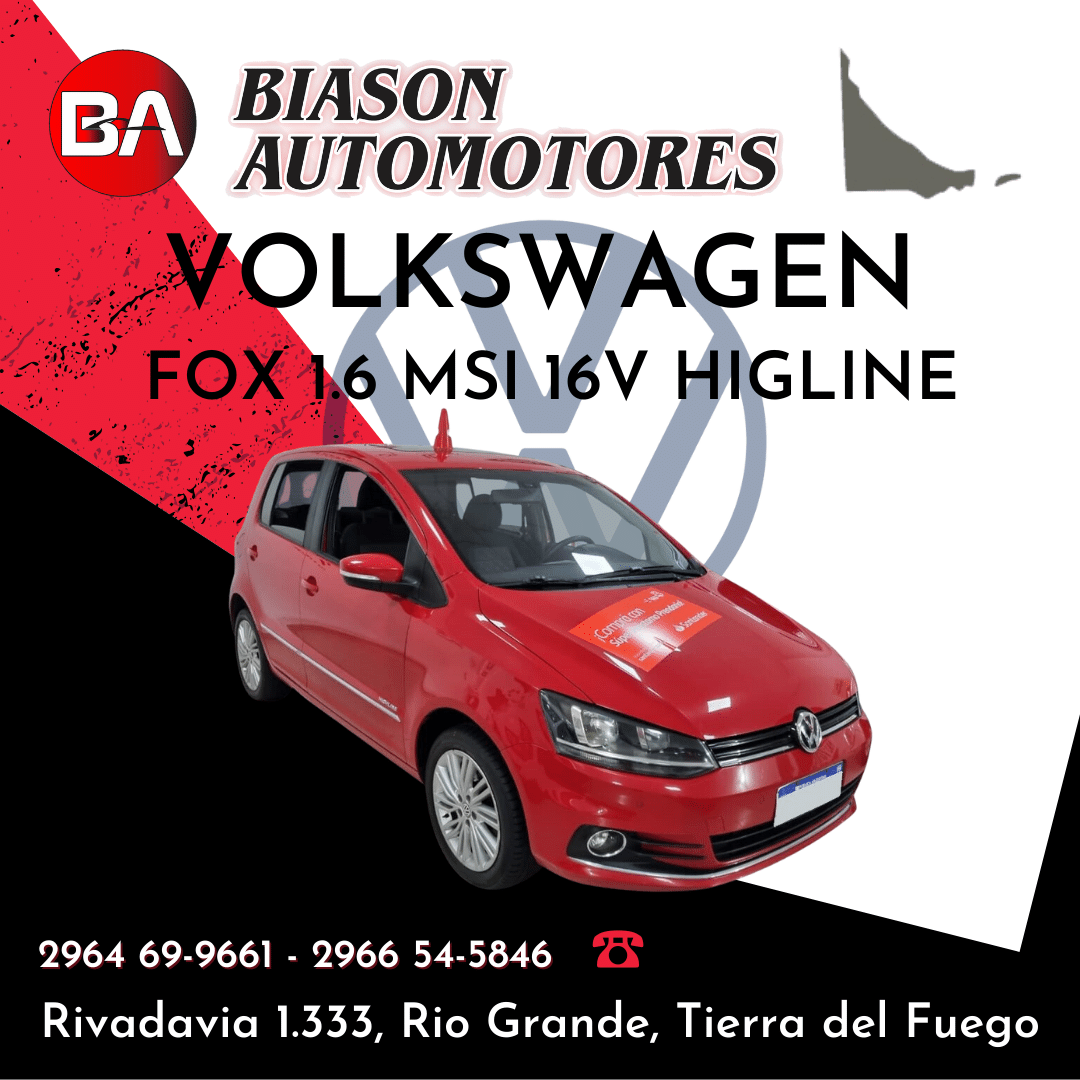
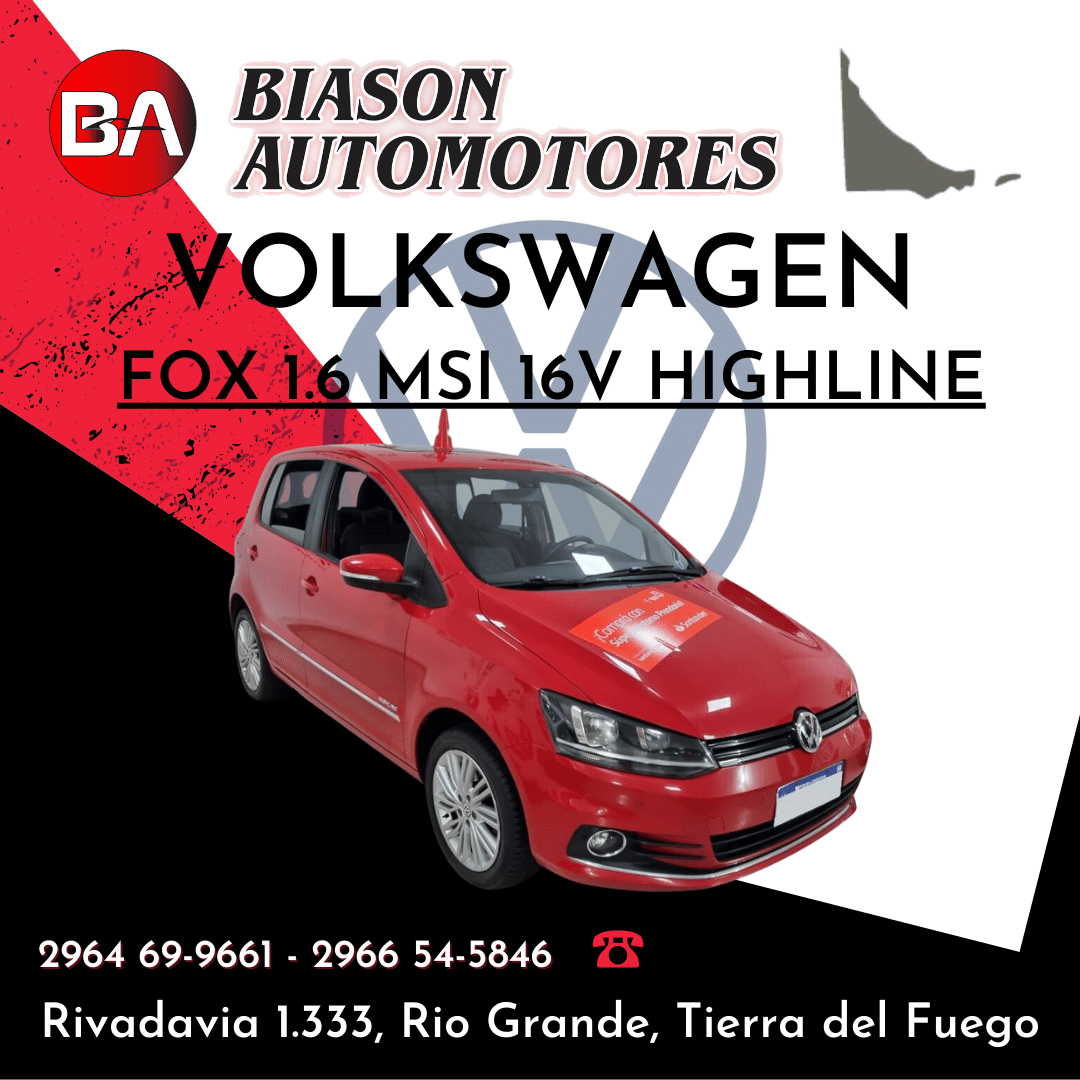
Highline

Changed region(s): [[0.0917, 0.3056, 0.9167, 0.3972]]

diff --git a/html/catalogo/volkswagen-fox.html b/html/catalogo/volkswagen-fox.html
@@ -21,8 +21,8 @@
   })(window,document,'script','dataLayer','GTM-TNQRBJ6');</script>
   <!-- End Google Tag Manager -->
 
-    <title>Biason Automotores | Volkswagen Fox 1.6 MSI 16V Higline </title>
-    <meta content="" name="VOLKSWAGEN Fox 1.6 MSI 16V Higline - Biason Automotores" />
+    <title>Biason Automotores | Volkswagen Fox 1.6 MSI 16V Highline </title>
+    <meta content="" name="VOLKSWAGEN Fox 1.6 MSI 16V Highline - Biason Automotores" />
     <meta content="" name="Biason Automotores, Volkswagen, Fox, Tierra del Fuego, Rio Grande" />
 
     <!-- Favicons -->
@@ -142,7 +142,7 @@
     <main>
       <section>
         <div class="container mt-4">
-          <h1>VOLKSWAGEN FOX 1.6 MSI 16V HIGLINE</h1>
+          <h1>VOLKSWAGEN FOX 1.6 MSI 16V HIGHLINE</h1>
         </div>
       </section>
 
@@ -154,25 +154,25 @@
               <div id="carouselExampleInterval" class="carousel slide" data-bs-ride="carousel">
                 <div class="carousel-inner">
                 <div class="carousel-item active" data-bs-interval="3000">
-                    <img src="../../assets/img/portfolio/volkswagen/fox/fox-highline.png" class="d-block w-100" alt="Volkswagen Fox 1.6 MSI 16V Higline">
+                    <img src="../../assets/img/portfolio/volkswagen/fox/fox-highline.png" class="d-block w-100" alt="Volkswagen Fox 1.6 MSI 16V Highline">
                   </div>
                   <div class="carousel-item" data-bs-interval="3000">
-                    <img src="../../assets/img/portfolio/volkswagen/fox/fox-highline (1).png" class="d-block w-100" alt="Volkswagen Fox 1.6 MSI 16V Higline">
+                    <img src="../../assets/img/portfolio/volkswagen/fox/fox-highline (1).png" class="d-block w-100" alt="Volkswagen Fox 1.6 MSI 16V Highline">
                   </div>
                   <div class="carousel-item" data-bs-interval="3000">
-                    <img src="../../assets/img/portfolio/volkswagen/fox/fox-highline (2).png" class="d-block w-100" alt="Volkswagen Fox 1.6 MSI 16V Higline">
+                    <img src="../../assets/img/portfolio/volkswagen/fox/fox-highline (2).png" class="d-block w-100" alt="Volkswagen Fox 1.6 MSI 16V Highline">
                   </div>
                   <div class="carousel-item " data-bs-interval="3000">
-                    <img src="../../assets/img/portfolio/volkswagen/fox/fox-highline (3).png" class="d-block w-100" alt="Volkswagen Fox 1.6 MSI 16V Higline">
+                    <img src="../../assets/img/portfolio/volkswagen/fox/fox-highline (3).png" class="d-block w-100" alt="Volkswagen Fox 1.6 MSI 16V Highline">
                   </div>
                   <div class="carousel-item " data-bs-interval="3000">
-                    <img src="../../assets/img/portfolio/volkswagen/fox/fox-highline (4).png" class="d-block w-100" alt="Volkswagen Fox 1.6 MSI 16V Higline">
+                    <img src="../../assets/img/portfolio/volkswagen/fox/fox-highline (4).png" class="d-block w-100" alt="Volkswagen Fox 1.6 MSI 16V Highline">
                   </div>
                   <div class="carousel-item" data-bs-interval="3000">
-                    <img src="../../assets/img/portfolio/volkswagen/fox/fox-highline (5).png" class="d-block w-100" alt="Volkswagen Fox 1.6 MSI 16V Higline">
+                    <img src="../../assets/img/portfolio/volkswagen/fox/fox-highline (5).png" class="d-block w-100" alt="Volkswagen Fox 1.6 MSI 16V Highline">
                   </div>
                   <div class="carousel-item" data-bs-interval="3000">
-                    <img src="../../assets/img/portfolio/volkswagen/fox/fox-highline (6).png" class="d-block w-100" alt="Volkswagen Fox 1.6 MSI 16V Higline">
+                    <img src="../../assets/img/portfolio/volkswagen/fox/fox-highline (6).png" class="d-block w-100" alt="Volkswagen Fox 1.6 MSI 16V Highline">
                   </div>
                 </div>
 
@@ -196,7 +196,7 @@
                 <h3>Información del rodado</h3>
                 <ul>
                   <li><strong>Marca</strong>: Volkswagen</li>
-                  <li><strong>Modelo</strong>: Fox 5P Higline L/17</li>
+                  <li><strong>Modelo</strong>: Fox 5P Highline L/17</li>
                   <li><strong>Motor</strong>: 1.6</li>
                   <li><strong>Año</strong>: 2018</li>
                 </ul>

diff --git a/html/vehiculos.html b/html/vehiculos.html
@@ -367,7 +367,7 @@
             </div>
             <div class="portfolio-info">
               <h4>VOLKSWAGEN</h4>
-              <p>Fox 1.6 MSI 16V Higline</p>
+              <p>Fox 1.6 MSI 16V Highline</p>
               <a href="/fox" class="details-link" title="Ficha Técnica"
                 ><i class="bi bi-card-checklist"> Ficha Técnica</i></a
               >
